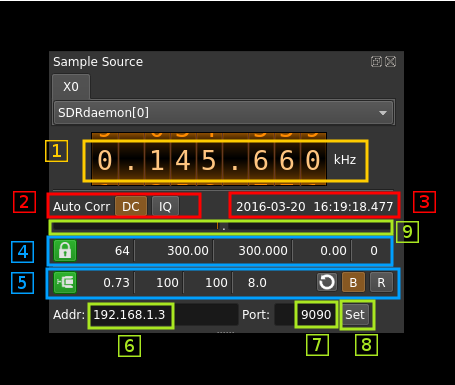
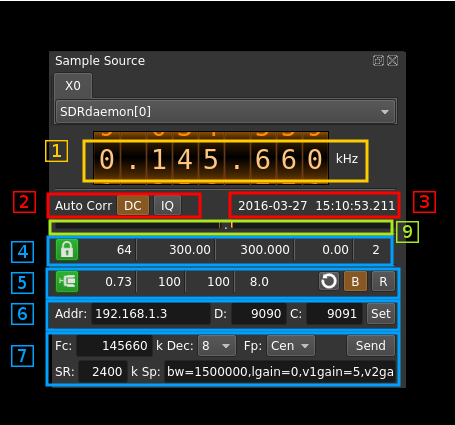
SDRdaemon plugin: control from the plugin documentation update

diff --git a/plugins/samplesource/sdrdaemon/readme.md b/plugins/samplesource/sdrdaemon/readme.md
@@ -2,7 +2,7 @@
 
 <h2>Introduction</h2>
 
-This input samples source plugin gets its samples over tbe network from a SDRdaemon server using UDP connection. SDRdaemon refers to the SDRdaemon utility found in [this](https://github.com/f4exb/sdrdaemon) Github repostory.
+This input sample source plugin gets its samples over tbe network from a SDRdaemon server using UDP connection. SDRdaemon refers to the SDRdaemon utility found in [this](https://github.com/f4exb/sdrdaemon) Github repostory.
 
 <h2>Interface</h2>
 
@@ -21,7 +21,7 @@ These buttons control the DSP auto correction options:
   
 <h3>3: Date/time</h3>
 
-This is the current timestamp of the block of data sent from the receiver. IT is refreshed about every second
+This is the current timestamp of the block of data sent from the receiver. It is refreshed about every second. This may not and is usually not the timestamp of the samples currently shown in the displays and in the audio since there is a failty large buffer in place to damper the network varying speed (see: 5.5: Main buffer length in seconds).
 
 <h3>9: Main buffer R/W pointers gauge</h3>
 
@@ -34,27 +34,27 @@ There are two gauges separated by a dot in the center. Ideally these gauges shou
 
 ![SDR Daemon status1 GUI](/doc/img/SDRdaemon_plugin_04.png)
 
-<h4>1: Stream lock</h4>
+<h4>4.1: Stream lock</h4>
 
 Turns green when stream is locked to meta data. Meta data carries the number of UDP packets in following frame. Lock status is obtained when the correct number of UDP packets have been received when the next meta data block occurs.
 
-<h4>2: Frame size</h4>
+<h4>4.2: Frame size</h4>
 
 Data is sent in frames with one meta data header. This is the size of such a frame. Frames may be compressed however the frame will be copied uncompressed to the main buffer.
 
-<h4>3: Sample rate as sent in the meta data</h4>
+<h4>4.3: Sample rate as sent in the meta data</h4>
 
 The receiver sends the stream data rate with this nominal value
 
-<h4>4: Actual stream sample rate</h4>
+<h4>4.4: Actual stream sample rate</h4>
 
 When the auto follow sample rate is engaged the actual system sample rate may differ from the nominal sample rate sent in the meta data. This is the actual system sample rate.
 
-<h4>5: Skew rate</h4>
+<h4>4.5: Skew rate</h4>
 
 This is the difference in percent between nominal sample rate sent in the meta data and actual system sample rate
 
-<h4>6: Main buffer R/W pointers positions</h4>
+<h4>4.6: Main buffer R/W pointers positions</h4>
 
 Read and write pointers should always be a half buffer distance buffer apart. This is the difference in percent of the main buffer size from this ideal position.
 
@@ -67,46 +67,86 @@ This corresponds to the value shown in the gauges above (9)
 
 ![SDR Daemon status2 GUI](/doc/img/SDRdaemon_plugin_05.png)
 
-<h4>1: Compressed stream</h4>
+<h4>5.1: Compressed stream</h4>
 
 When lit in green it means the stream is compressed using LZ4.
 
-<h4>2: Compression ratio</h4>
+<h4>5.2: Compression ratio</h4>
 
 This is the ratio between the compressed data size and the original data size.
 
-<h4>3: CRC OK ratio</h4>
+<h4>5.3: CRC OK ratio</h4>
 
 This is the percentage of received data blocks with a correct CRC. It should be as closed to 100% as possible.
 
-<h4>4: LZ4 successful decodes ratio</h4>
+<h4>5.4: LZ4 successful decodes ratio</h4>
 
 This is the percentage of LZ4 data blocks that were successfully uncompressed. It should be as closed to 100% as possible.
 
-<h4>5: Main buffer length in seconds</h4>
+<h4>5.5: Main buffer length in seconds</h4>
 
-This is the main buffer (writes from UDP / reads from DSP engine) length in units of time (seconds). Initially the write pointer is at the start of buffer and the read pointer is on the middle. Thus it takes half a buffer length in time to get the first useful sample.
+This is the main buffer (writes from UDP / reads from DSP engine) length in units of time (seconds). Initially the write pointer is at the start of buffer and the read pointer is on the middle. Thus it takes half a buffer length in time to get the first useful sample. The minimum length is 8s and can be as long as to fit 50 average read chunks.
 
-<h4>6: Reset buffer indexes push button</h4>
+<h4>5.6: Reset buffer indexes push button</h4>
 
 This forces the write and read pointers in their initial position regardless of the contents of the buffer. The write pointer position is set at the start of buffer and the read pointer position is set at the middle.
 
-<h4>7: Auto lock main buffer R/W pointers position toggle</h4>
+<h4>5.7: Auto lock main buffer R/W pointers position toggle</h4>
 
 When set it engages the auto lock of R/W pointers position. It will try to maintain a half buffer distance between read and write pointers.
 
-<h4>8:  Auto lock to actual stream sample rate</h4>
+<h4>5.8:  Auto lock to actual stream sample rate</h4>
 
 This is rarely necessary. Only use it when you suspect that the sender data sample rate is not exactly as advertised in the meta data. This is normally exclusive of the auto lock R/W pointers position however the GUI allows both. You are advised to chose only one of the two.
 
-<h3>6: Interface IP address</h3>
+<h3>6: Network parameters</h3>
 
-Address of the network interface on your machine to which the SDRdaemon server sends samples to.
+![SDR Daemon status3 GUI](/doc/img/SDRdaemon_plugin_06.png)
 
-<h3>7: Data port</h3>
+<h4>6.1: Interface IP address</h4>
 
-UDP port on your machine to which the SDRdaemon server sends samples to.
+Address of the network interface on the local (your) machine to which the SDRdaemon server sends samples to.
 
-<h3>8: Validation button</h3>
+<h4>6.2: Data port</h4>
 
-Whenever the address (6) or data port (7) change this button is enabled to validate the new values.
+UDP port on the local (your) machine to which the SDRdaemon server sends samples to.
+
+<h4>6.3 Configuration port<h4>
+
+TCP port on the distant machine hosting the SDRdaemon instance to send control messages to.
+
+<h4>6.4: Validation button</h4>
+
+Whenever the address (6.1), data port (6.2) or configuration port (6.3) change this button is enabled to validate the new values.
+
+<h3>7: Configuration parameters</h3>
+
+![SDR Daemon status4 GUI](/doc/img/SDRdaemon_plugin_07.png)
+
+<h4>7.1: Center frequency in kHz</h4>
+
+This is the center frequency in kHz to which the hardware attached to the SDRdaemon instance will get tuned to.
+
+<h4>7.2: Decimation factor</h4>
+
+These are successive powers of two from 0 (1) to 6 (64). The SDRdaemon instance will decimate the samples coming from the attached hardware by this value. Thus the sample rate (see 7.5) will be decimated by the same value before it is sent over through the network.
+
+<h4>7.3: Center frequency position</h4>
+
+The center frequency in the passband is either:
+
+  - below the local oscillator (NCO) or infradyne. Actually -1/4th the bandwidth.
+  - above the local oscillator (NCO) or supradyne. Actually +1/4th the bandwidth.
+  - centered on the local oscillator or zero IF.
+  
+<h4>7.4: Send data to the distant SDRdaemon instance</h4>
+
+Whenever any of the parameters change this button gets enabled. When clicked a message is sent on the configuration port of the distance machine to which the SDRdaemon listens for instructions. Leave time for the buffering system to stabilize to get the samples flow through normally.
+
+<h4>7.5: Sample rate in kS/s</h4>
+
+This is the sample rate in kS/s of the samples sent from the hardware device to the SDRdaemon instance
+
+<h4>7.6: Other parameters hardware specific</h4>
+
+THese are the parameters that are specific to the hardware attached to the distant SDRdaemon instance. You have to know which device is attached to send the proper parameters. Please refer to the SDRdaemon documentation or on line help to get information on these parameters.

diff --git a/Readme.md b/Readme.md
@@ -199,7 +199,7 @@ You should take note that the Windows scheduler is just a piece of crap and not 
 
 There are no plugins for both flavours of Funcubes since it uses Alsa interface which is Linux exclusively. Changing for the Qt audio portable interface instead could be a solution that will be investigated in the future.
 
-The SDRdaemon plug-in does not work mainly due to the fact that it needs an OS with a decent scheduler and Windows is definitely not this sort of OS (see my previous warning). It is kept there only to demonstrate how a crippled OS is Windows. If you want to use this plugin get yourself a decent OS first i.e. Linux.
+The SDRdaemon plug-in has been removed since version 1.1.4 in fact it is present only in version 1.1.3. It was not working well anyway mainly due to the fact that it needs an OS with a decent scheduler and Windows is definitely not this sort of OS (see my previous warning). With the implementation of the remote control of the SDRdaemon instance it is not working at all. I don't want to bother anymore with this. For now on it will be present in the Linux version on;y where it works beautifully.
 
 <h3>Build environment</h3>
 
